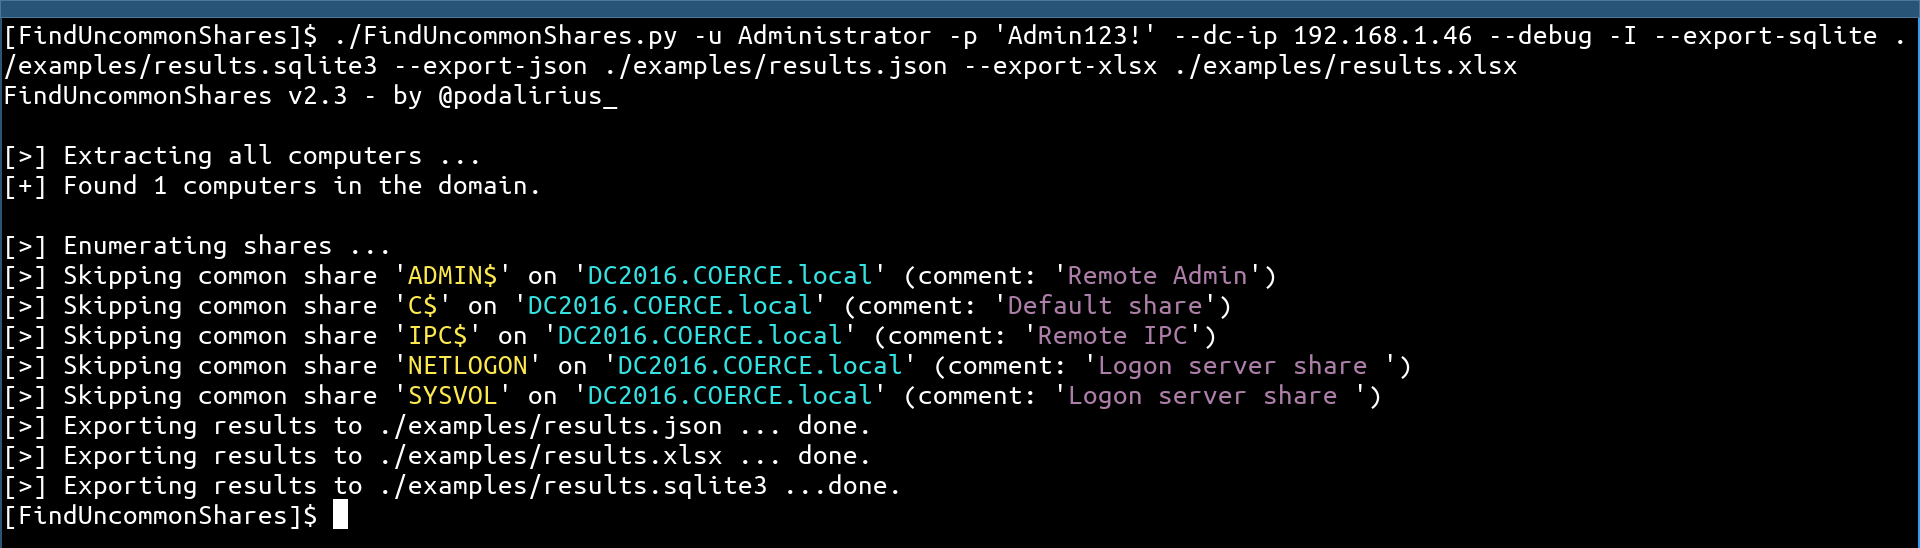
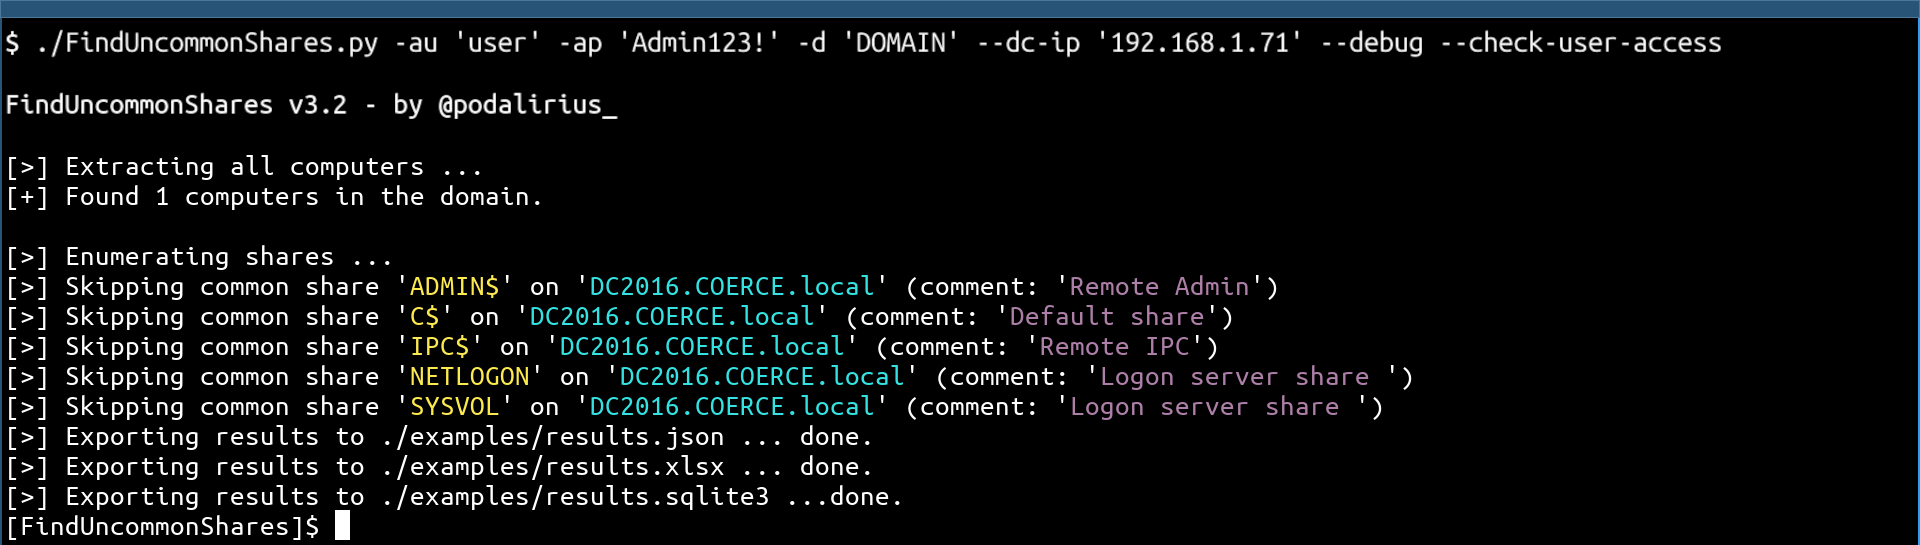
Updated examples, fixes #29

Changed region(s): [[0.0, 0.4367, 0.75, 0.9982], [0.0, 0.0312, 1.0, 0.2183], [0.0, 0.2495, 0.2812, 0.3743]]

diff --git a/README.md b/README.md
@@ -29,54 +29,91 @@
 
  + List all shares where your current user has WRITE access:
     ```
-    ./FindUncommonShares.py -u user -p 'Podalirius123!' -d DOMAIN --dc-ip 192.168.1.71 --writable
+    ./FindUncommonShares.py -au user -ap 'Podalirius123!' -ad DOMAIN --auth-dc-ip 192.168.1.71 --writable
     ```
  
  + Export list of shares in the domain to an Excel file for the client:
    ```
-   ./FindUncommonShares.py -u user -p 'Podalirius123!' -d DOMAIN --dc-ip 192.168.1.71 --export-xlsx ./examples/results.xlsx
+   ./FindUncommonShares.py -au user -ap 'Podalirius123!' -ad DOMAIN --auth-dc-ip 192.168.1.71 --export-xlsx ./examples/results.xlsx
    ```
 
  + List all shares with access rights for your current user:
     ```
-    ./FindUncommonShares.py -u user -p 'Podalirius123!' -d DOMAIN --dc-ip 192.168.1.71 --check-user-access
+    ./FindUncommonShares.py -au user -ap 'Podalirius123!' -ad DOMAIN --auth-dc-ip 192.168.1.71 --check-user-access
     ```
    
 ## Usage
 
 ```              
 $ ./FindUncommonShares.py -h
-FindUncommonShares v3.0 - by @podalirius_
+FindUncommonShares v3.2 - by @podalirius_
 
-usage: FindUncommonShares.py [-h] [-v] [--use-ldaps] [-q] [--debug] [-no-colors] [-t THREADS] [-l LDAP_QUERY] [-ns NAMESERVER]
-                             [--check-user-access] [--readable] [--writable] [-I] [-i IGNORED_SHARES] [-s ACCEPTED_SHARES]
-                             [--export-xlsx EXPORT_XLSX] [--export-json EXPORT_JSON] [--export-sqlite EXPORT_SQLITE] --dc-ip ip
-                             address [-d DOMAIN] [-u USER] [--no-pass | -p PASSWORD | -H [LMHASH:]NTHASH | --aes-key hex key] [-k]
+usage: FindUncommonShares.py [-h] [-v] [-q] [--debug] [-no-colors] [-t THREADS] [-ns NAMESERVER] [-tf TARGETS_FILE] [-tt TARGET] [-tu TARGET_URL]
+                             [-tU TARGETS_URLS_FILE] [-tp TARGET_PORTS] [-ad AUTH_DOMAIN] [-ai AUTH_DC_IP] [-au AUTH_USER] [--ldaps] [--no-ldap] [--subnets]
+                             [-tl TARGET_LDAP_QUERY] [--no-pass | -ap AUTH_PASSWORD | -ah AUTH_HASHES | --aes-key hex key] [-k] [--kdcHost AUTH_KDCHOST]
+                             [--check-user-access] [--readable] [--writable] [-iH] [-iP] [-i IGNORED_SHARES] [-s ACCEPTED_SHARES] [--export-xlsx EXPORT_XLSX]
+                             [--export-json EXPORT_JSON] [--export-sqlite EXPORT_SQLITE]
 
 Find uncommon SMB shares on remote machines.
 
 options:
   -h, --help            show this help message and exit
   -v, --verbose         Verbose mode. (default: False).
-  --use-ldaps           Use LDAPS instead of LDAP.
   -q, --quiet           Show no information at all.
   --debug               Debug mode. (default: False).
   -no-colors            Disables colored output mode.
   -t THREADS, --threads THREADS
                         Number of threads (default: 20).
-  -l LDAP_QUERY, --ldap-query LDAP_QUERY
-                        LDAP query to use to extract computers from the domain.
   -ns NAMESERVER, --nameserver NAMESERVER
                         IP of the DNS server to use, instead of the --dc-ip.
+
+Targets:
+  -tf TARGETS_FILE, --targets-file TARGETS_FILE
+                        Path to file containing a line by line list of targets.
+  -tt TARGET, --target TARGET
+                        Target IP, FQDN or CIDR.
+  -tu TARGET_URL, --target-url TARGET_URL
+                        Target URL to the tomcat manager.
+  -tU TARGETS_URLS_FILE, --targets-urls-file TARGETS_URLS_FILE
+                        Path to file containing a line by line list of target URLs.
+  -tp TARGET_PORTS, --target-ports TARGET_PORTS
+                        Target ports to scan top search for Apache Tomcat servers.
+  -ad AUTH_DOMAIN, --auth-domain AUTH_DOMAIN
+                        Windows domain to authenticate to.
+  -ai AUTH_DC_IP, --auth-dc-ip AUTH_DC_IP
+                        IP of the domain controller.
+  -au AUTH_USER, --auth-user AUTH_USER
+                        Username of the domain account.
+  --ldaps               Use LDAPS (default: False)
+  --no-ldap             Do not perform LDAP queries.
+  --subnets             Get all subnets from the domain and use them as targets (default: False)
+  -tl TARGET_LDAP_QUERY, --target-ldap-query TARGET_LDAP_QUERY
+                        LDAP query to use to extract computers from the domain.
+
+Credentials:
+  --no-pass             Don't ask for password (useful for -k)
+  -ap AUTH_PASSWORD, --auth-password AUTH_PASSWORD
+                        Password of the domain account.
+  -ah AUTH_HASHES, --auth-hashes AUTH_HASHES
+                        LM:NT hashes to pass the hash for this user.
+  --aes-key hex key     AES key to use for Kerberos Authentication (128 or 256 bits)
+  -k, --kerberos        Use Kerberos authentication. Grabs credentials from .ccache file (KRB5CCNAME) based on target parameters. If valid credentials cannot
+                        be found, it will use the ones specified in the command line
+  --kdcHost AUTH_KDCHOST
+                        IP of the domain controller.
+
+Shares:
   --check-user-access   Check if current user can access the share.
   --readable            Only list shares that current user has READ access to.
   --writable            Only list shares that current user has WRITE access to.
-  -I, --ignore-hidden-shares
+  -iH, --ignore-hidden-shares
                         Ignores hidden shares (shares ending with $)
+  -iP, --ignore-print-queues
+                        Ignores print queues (shares of STYPE_PRINTQ)
   -i IGNORED_SHARES, --ignore-share IGNORED_SHARES
-                        Specify shares to ignore explicitly. (e.g., --ignore-share 'C$' --ignore-share 'Backup')
+                        Specify shares to ignore explicitly. (e.g., --ignore-share "C$" --ignore-share "Backup")
   -s ACCEPTED_SHARES, --show-share ACCEPTED_SHARES
-                        Specify shares to show explicitly. (e.g., --show-share 'C$' --show-share 'Backup')
+                        Specify shares to show explicitly. (e.g., --show-share "C$" --show-share "Backup")
 
 Output files:
   --export-xlsx EXPORT_XLSX
@@ -85,23 +122,6 @@ Output files:
                         Output JSON file to store the results in.
   --export-sqlite EXPORT_SQLITE
                         Output SQLITE3 file to store the results in.
-
-Authentication & connection:
-  --dc-ip ip address    IP Address of the domain controller or KDC (Key Distribution Center) for Kerberos. If omitted it will use the
-                        domain part (FQDN) specified in the identity parameter
-  -d DOMAIN, --domain DOMAIN
-                        (FQDN) domain to authenticate to
-  -u USER, --user USER  user to authenticate with
-
-Credentials:
-  --no-pass             Don't ask for password (useful for -k)
-  -p PASSWORD, --password PASSWORD
-                        Password to authenticate with
-  -H [LMHASH:]NTHASH, --hashes [LMHASH:]NTHASH
-                        NT/LM hashes, format is LMhash:NThash
-  --aes-key hex key     AES key to use for Kerberos Authentication (128 or 256 bits)
-  -k, --kerberos        Use Kerberos authentication. Grabs credentials from .ccache file (KRB5CCNAME) based on target parameters. If
-                        valid credentials cannot be found, it will use the ones specified in the command line
 ```
 
 ## Exported results
